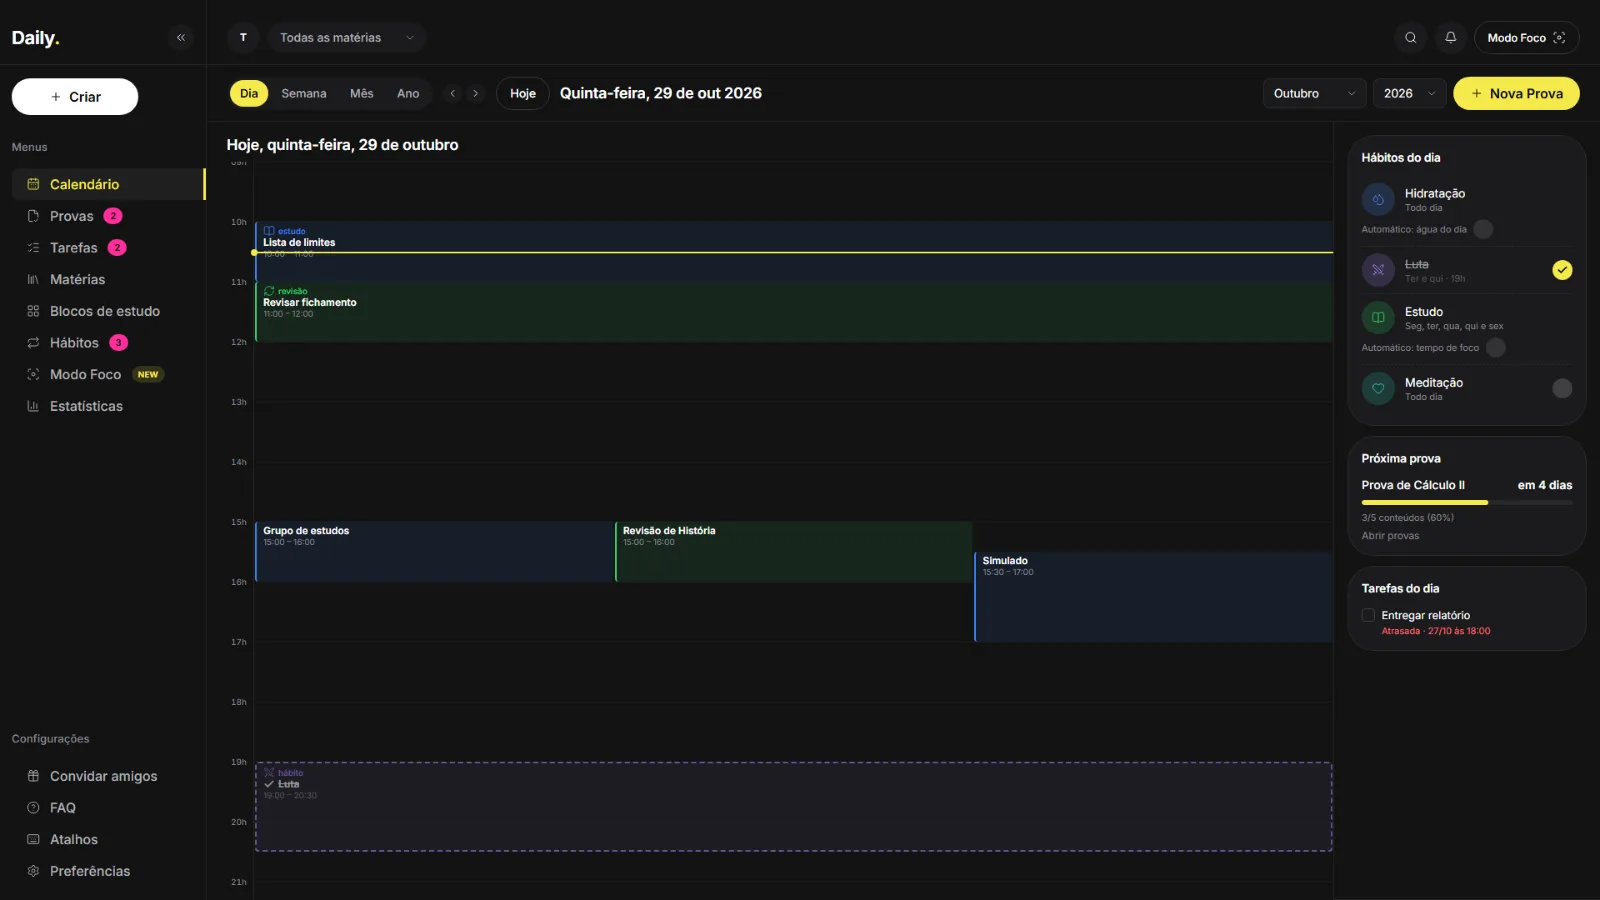
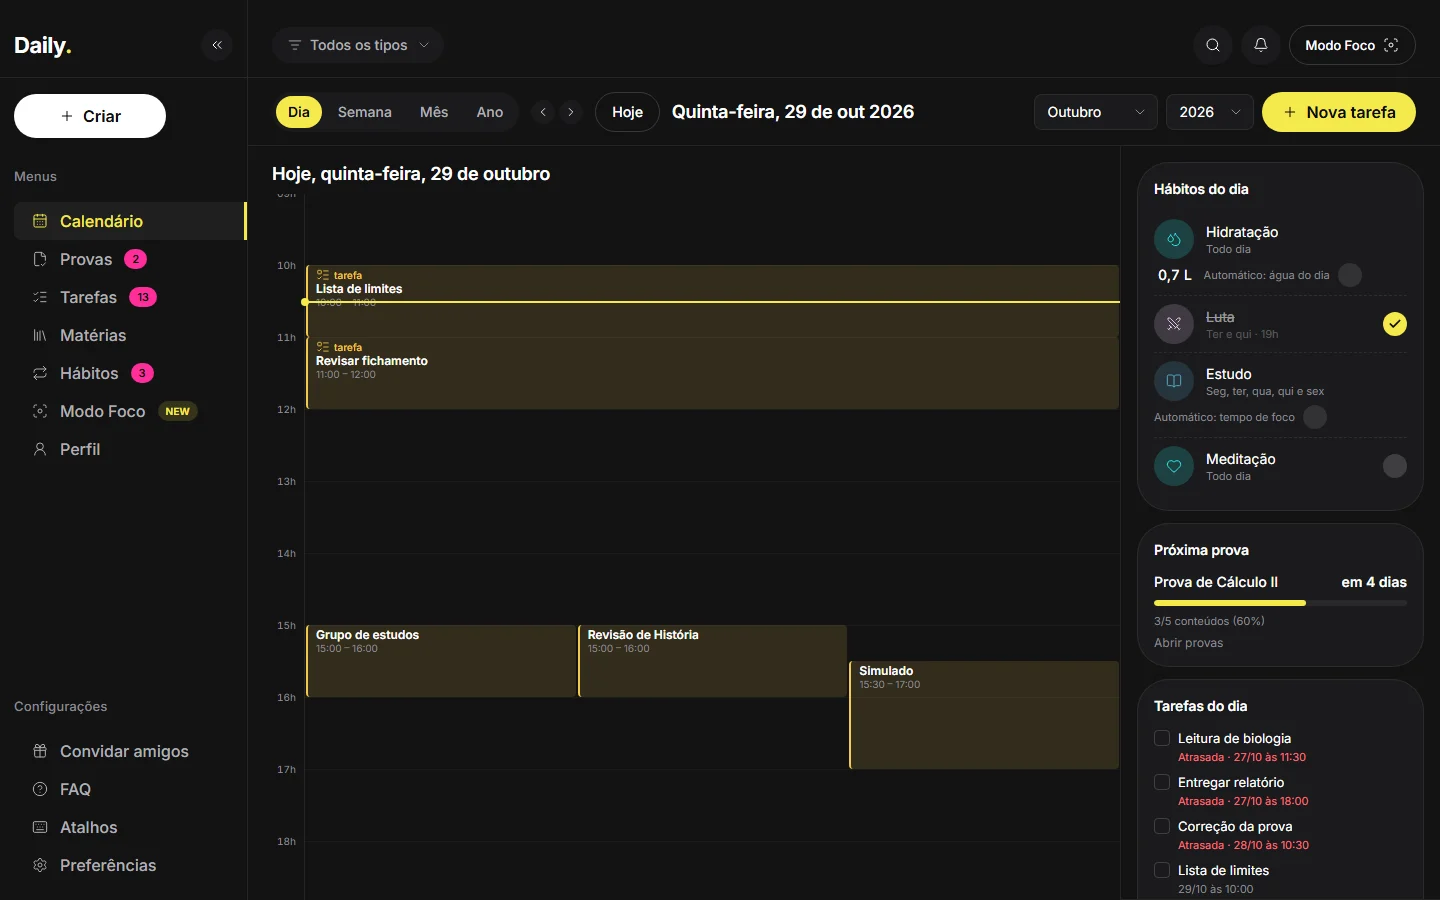
docs: capturas do calendário, painel de tarefa, Tarefas, Hábitos e Perfil

diff --git a/README.md b/README.md
@@ -51,12 +51,13 @@ A versão **1.0** está publicada em [https://dailystudyplanner.vercel.app](http
 
 ## Telas
 
-|                                                                                                                    |                                                                                                                                                              |
-| ------------------------------------------------------------------------------------------------------------------ | ------------------------------------------------------------------------------------------------------------------------------------------------------------ |
-| **Calendário (Mês)**: tarefas, provas e especiais, com filtro por tipo.<br>![Mês](docs/images/calendario-mes.webp) | **Semana**: grade de horas, eventos simultâneos lado a lado e faixa de hábitos.<br>![Semana](docs/images/calendario-semana.webp)                             |
-| **Dia**: agenda com painel de hábitos, próxima prova e tarefas.<br>![Dia](docs/images/calendario-dia.webp)         | **Ano**: 12 mini-meses com a densidade de eventos de cada dia.<br>![Ano](docs/images/calendario-ano.webp)                                                    |
-| **Hábitos**: heatmap de contribuições, sequências e taxa por hábito.<br>![Hábitos](docs/images/habitos.webp)       | **Perfil** (antes Estatísticas): tempo de foco, preparação, água, hábitos de hoje e estatísticas pessoais.<br>![Estatísticas](docs/images/estatisticas.webp) |
-| **Modo Foco**: dígitos grandes, duração digitada no próprio relógio.<br>![Foco](docs/images/modo-foco.webp)        | **Foco travado**: só o tempo e "Segurar para destravar".<br>![Foco travado](docs/images/modo-foco-travado.webp)                                              |
+|                                                                                                                              |                                                                                                                                                  |
+| ---------------------------------------------------------------------------------------------------------------------------- | ------------------------------------------------------------------------------------------------------------------------------------------------ |
+| **Calendário (Mês)**: tarefas, provas e especiais, com filtro por tipo.<br>![Mês](docs/images/calendario-mes.webp)           | **Semana**: grade de horas, eventos simultâneos lado a lado e faixa de hábitos.<br>![Semana](docs/images/calendario-semana.webp)                 |
+| **Dia**: agenda com painel de hábitos, próxima prova e tarefas.<br>![Dia](docs/images/calendario-dia.webp)                   | **Ano**: 12 mini-meses com a densidade de eventos de cada dia.<br>![Ano](docs/images/calendario-ano.webp)                                        |
+| **Hábitos**: heatmap de contribuições, sequências e taxa por hábito.<br>![Hábitos](docs/images/habitos.webp)                 | **Perfil** (antes Estatísticas): tempo de foco, preparação, água, hábitos de hoje e estatísticas pessoais.<br>![Perfil](docs/images/perfil.webp) |
+| **Tarefas**: resumo, Atrasadas, Hoje e todas as Próximas, com concluir em um clique.<br>![Tarefas](docs/images/tarefas.webp) | **Painel de tarefa**: tipo, status em 3 opções, prazo, conteúdos/subtarefas e descrição.<br>![Painel de tarefa](docs/images/painel-tarefa.webp)  |
+| **Modo Foco**: dígitos grandes, duração digitada no próprio relógio.<br>![Foco](docs/images/modo-foco.webp)                  | **Foco travado**: só o tempo e "Segurar para destravar".<br>![Foco travado](docs/images/modo-foco-travado.webp)                                  |
 
 ## Funcionalidades
 
@@ -123,7 +124,7 @@ O Daily se adapta a quatro faixas de tela (definidas em um só lugar: `apps/web/
   <img src="docs/images/celular-mais.webp" width="190" alt="Sheet Mais da barra inferior" />
 </p>
 <p align="center">
-  <img src="docs/images/celular-estatisticas.webp" width="190" alt="Estatísticas no celular, em uma coluna" />
+  <img src="docs/images/celular-estatisticas.webp" width="190" alt="Perfil (antes Estatísticas) no celular, em uma coluna" />
   <img src="docs/images/celular-foco-travado.webp" width="190" alt="Modo Foco travado no celular" />
   <img src="docs/images/tablet-calendario-mes.webp" width="260" alt="Calendário no tablet, com trilho de ícones" />
   <img src="docs/images/tablet-habitos.webp" width="260" alt="Hábitos no tablet" />
